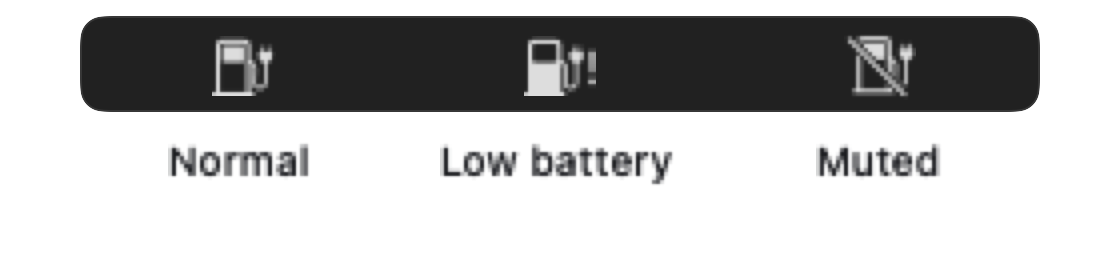
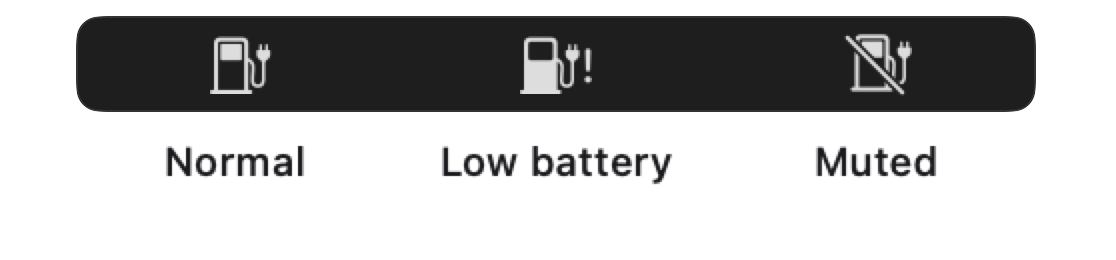
docs: render and capture the screenshots at retina resolution
The renderer drew at the 1x main display's density and the Settings
captures were 1x, so both were upscaled and blurry.

diff --git a/docs/images/render-panel.swift b/docs/images/render-panel.swift
@@ -1,6 +1,6 @@
-// Renders the menu bar panel to panel-light.png and panel-dark.png at 3x, straight from the app's
-// own PanelView, and the menu bar icon's states to menubar-light.png and menubar-dark.png at 4x from
-// MenuBarLabel. Built and run by update-screenshots.sh; the panel shows the battery as it is right
+// Renders the menu bar panel to panel-light.png and panel-dark.png, straight from the app's own
+// PanelView, and the menu bar icon's states to menubar-light.png and menubar-dark.png from
+// MenuBarLabel, both at 4x. Built and run by update-screenshots.sh; the panel shows the battery as it is right
 // now, with default settings.
 import AppKit
 import SwiftUI
@@ -37,19 +37,26 @@ enum RenderPanel {
                 .environmentObject(BatteryMonitor.shared)
             render(panel, dark: dark, to: "\(outputDirectory)/panel-\(dark ? "dark" : "light").png")
         }
-        // Small, so compose.swift enlarges it to the Settings window's width; hence 4x
+        // Small, so compose.swift enlarges it to the Settings window's width
         for dark in [false, true] {
-            render(MenuBarStates(dark: dark), dark: dark, scale: 4,
+            render(MenuBarStates(dark: dark), dark: dark,
                    to: "\(outputDirectory)/menubar-\(dark ? "dark" : "light").png")
         }
     }
 
     @MainActor
-    static func render<V: View>(_ view: V, dark: Bool, scale: Int = 3, to path: String) {
-        let hosting = NSHostingView(rootView: view)
+    static func render<V: View>(_ view: V, dark: Bool, scale: Int = 4, to path: String) {
+        // A window draws at its screen's pixel density, so it goes on the sharpest screen, and the
+        // view is enlarged inside it to make up the rest of `scale`
+        let screen = NSScreen.screens.max { $0.backingScaleFactor < $1.backingScaleFactor }!
+        let zoom = CGFloat(scale) / screen.backingScaleFactor
+        let pointSize = NSHostingView(rootView: view).fittingSize
+        let hosting = NSHostingView(rootView: view
+            .scaleEffect(zoom, anchor: .topLeading)
+            .frame(width: pointSize.width * zoom, height: pointSize.height * zoom, alignment: .topLeading))
         let size = hosting.fittingSize
-        let window = ActiveWindow(contentRect: CGRect(origin: .zero, size: size), styleMask: [.borderless],
-                                  backing: .buffered, defer: false)
+        let window = ActiveWindow(contentRect: CGRect(origin: screen.frame.origin, size: size), styleMask: [.borderless],
+                                  backing: .buffered, defer: false, screen: screen)
         window.appearance = NSAppearance(named: dark ? .darkAqua : .aqua)
         window.isOpaque = false
         window.backgroundColor = .clear
@@ -59,11 +66,7 @@ enum RenderPanel {
         RunLoop.main.run(until: Date().addingTimeInterval(0.5))
 
         let bounds = hosting.bounds
-        let rep = NSBitmapImageRep(bitmapDataPlanes: nil, pixelsWide: Int(bounds.width) * scale,
-                                   pixelsHigh: Int(bounds.height) * scale, bitsPerSample: 8, samplesPerPixel: 4,
-                                   hasAlpha: true, isPlanar: false, colorSpaceName: .deviceRGB,
-                                   bytesPerRow: 0, bitsPerPixel: 0)!
-        rep.size = bounds.size
+        guard let rep = hosting.bitmapImageRepForCachingDisplay(in: bounds) else { fatalError("can't render \(path)") }
         hosting.cacheDisplay(in: bounds, to: rep)
         try! rep.representation(using: .png, properties: [:])!.write(to: URL(fileURLWithPath: path))
         window.orderOut(nil)

diff --git a/docs/images/compose.swift b/docs/images/compose.swift
@@ -10,9 +10,9 @@ func load(_ name: String) -> NSImage {
     guard let rep = NSBitmapImageRep(data: try! Data(contentsOf: URL(fileURLWithPath: "\(dir)/\(name).png"))) else {
         fatalError("can't read \(name).png")
     }
-    // Size in points: the panel shots are rendered at 3x, the menu bar strip at 4x, the Settings
-    // captures at 1x
-    let pixelsPerPoint: CGFloat = name.hasPrefix("panel") ? 3 : name.hasPrefix("menubar") ? 4 : 1
+    // Size in points: the panel and the menu bar strip are rendered at 4x, the Settings captures
+    // are Retina (2x)
+    let pixelsPerPoint: CGFloat = name.hasPrefix("settings") ? 2 : 4
     let image = NSImage(size: CGSize(width: CGFloat(rep.pixelsWide) / pixelsPerPoint,
                                      height: CGFloat(rep.pixelsHigh) / pixelsPerPoint))
     image.addRepresentation(rep)
@@ -26,7 +26,7 @@ func fit(_ image: NSImage, width: CGFloat) -> NSImage {
 }
 
 // The panel and the menu bar strip are narrower than the Settings window, so they're enlarged to
-// the same width; that's why they're rendered at 3x and 4x.
+// the same width; that's why they're rendered at 4x, so they're only ever scaled down.
 let settingsWidth = load("settings-light").size.width
 let rows: [(label: String, light: NSImage, dark: NSImage)] = [
     ("Menu bar icon", fit(load("menubar-light"), width: settingsWidth), fit(load("menubar-dark"), width: settingsWidth)),

diff --git a/AGENTS.md b/AGENTS.md
@@ -30,7 +30,7 @@ A macOS 14+ menu bar app (SwiftUI `MenuBarExtra`, no Dock icon by default via `L
 - **Ad-hoc signing with hardened runtime** (`codesign --options runtime --sign -`) is required for notifications and launch at login. Do **not** add entitlements such as `com.apple.developer.usernotifications.time-sensitive`. They need a provisioning profile from a paid Apple Developer Program membership, and in an ad-hoc signature they make AMFI refuse to launch the app (POSIX 163). `interruptionLevel = .timeSensitive` is deliberately left in the code even though it has no effect on this build.
 - **Security hardening**: `playSound` only plays names listed in `Notifier.availableSounds` (from `/System/Library/Sounds`). The `osascript` fallback passes the title and message as `argv` and never interpolates them into the script text. Keep both.
 - The app has no network access, no sandbox and no privileges. Keep it that way.
-- `README.md` is the user-facing overview (features, install, settings, troubleshooting) and is kept short. Technical detail (the warning logic, implementation notes, `build.sh`, screenshots, file locations, security) lives in `docs/HOW-IT-WORKS.md`. Update whichever applies when behavior changes, and the screenshots in `docs/images/` when the UI changes. The README shows one combined `screenshots.png`. `docs/images/update-screenshots.sh` re-renders the panel images from `PanelView` and rebuilds it; the Settings window images are real captures and have to be replaced by hand first (rendered ones look inactive).
+- `README.md` is the user-facing overview (features, install, settings, troubleshooting) and is kept short. Technical detail (the warning logic, implementation notes, `build.sh`, screenshots, file locations, security) lives in `docs/HOW-IT-WORKS.md`. Update whichever applies when behavior changes, and the screenshots in `docs/images/` when the UI changes. The README shows one combined `screenshots.png`. `docs/images/update-screenshots.sh` re-renders the panel images from `PanelView` and rebuilds it; the Settings window images are real Retina (2x) captures, shadow included, and have to be replaced by hand first (rendered ones look inactive).
 
 ## Commit messages
 

diff --git a/README.md b/README.md
@@ -4,7 +4,7 @@ A lightweight macOS menu bar app for low battery warnings at the level you choos
 
 macOS only warns when the battery is nearly empty, at a level you can't change, with a notification that's easy to miss. Flicker warns earlier, keeps warning as the battery drops, and plays a sound loud enough to notice.
 
-![Flicker in light and dark mode. Top row: the menu bar icon, normal, low battery (with an exclamation mark) and muted (crossed out). Middle row: the menu bar panel, showing 58% on battery with 2:14 remaining, battery health Normal, maximum capacity 80% and 1,054 cycles, a summary of the warning settings, and Settings and Quit buttons. Bottom row: the Settings window, with Warnings (warn below 40%, critical level 10%, remind every 5% drop), Alert (notification style, Sosumi sound, 300% volume, test warning) and General (show in Dock, percentage in menu bar, launch at login) sections.](docs/images/screenshots.png)
+![Flicker in light and dark mode. Top row: the menu bar icon, normal, low battery (with an exclamation mark) and muted (crossed out). Middle row: the menu bar panel, showing 68% on battery with 2:15 remaining, battery health Normal, maximum capacity 80% and 1,061 cycles, a summary of the warning settings, and Settings and Quit buttons. Bottom row: the Settings window, with Warnings (warn below 40%, critical level 10%, remind every 5% drop), Alert (notification style, Sosumi sound, 300% volume, test warning) and General (show in Dock, percentage in menu bar, launch at login) sections.](docs/images/screenshots.png)
 
 ## Features
 

diff --git a/docs/HOW-IT-WORKS.md b/docs/HOW-IT-WORKS.md
@@ -70,7 +70,7 @@ A `.app` is a folder with a fixed layout. Without Xcode, the script builds it by
 
 ## Screenshots
 
-`docs/images/update-screenshots.sh` re-renders the panel images straight from `PanelView` at 3x and rebuilds `screenshots.png` with `compose.swift`, which enlarges the panel to the Settings window's width. It also draws the menu bar icon's states from `MenuBarLabel`, enlarged the same way. The Settings window images are real captures, since a window drawn by a background process renders its controls as inactive.
+`docs/images/update-screenshots.sh` re-renders the panel images straight from `PanelView` at 4x, drawn on the sharpest connected screen since a window renders at its screen's pixel density, and rebuilds `screenshots.png` with `compose.swift`, which enlarges the panel to the Settings window's width. It also draws the menu bar icon's states from `MenuBarLabel`, enlarged the same way. The Settings window images are real Retina (2x) captures, with the window shadow, since a window drawn by a background process renders its controls as inactive.
 
 ## Where the app keeps things
 
